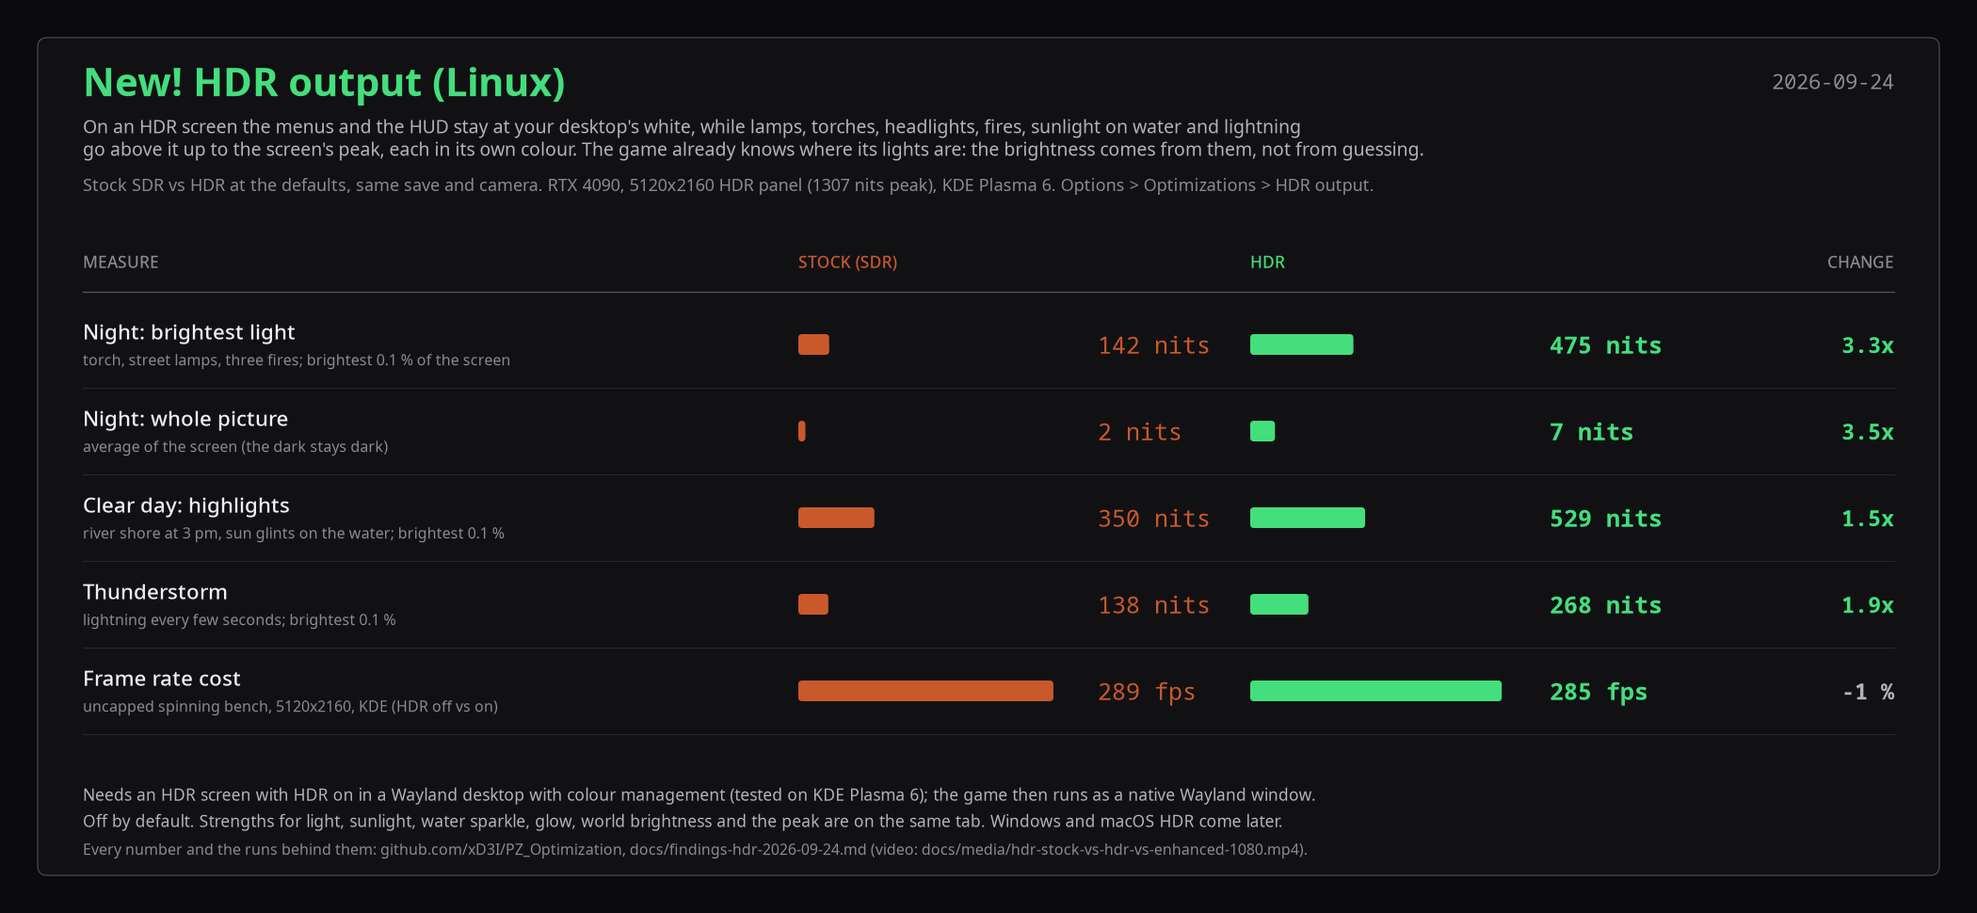
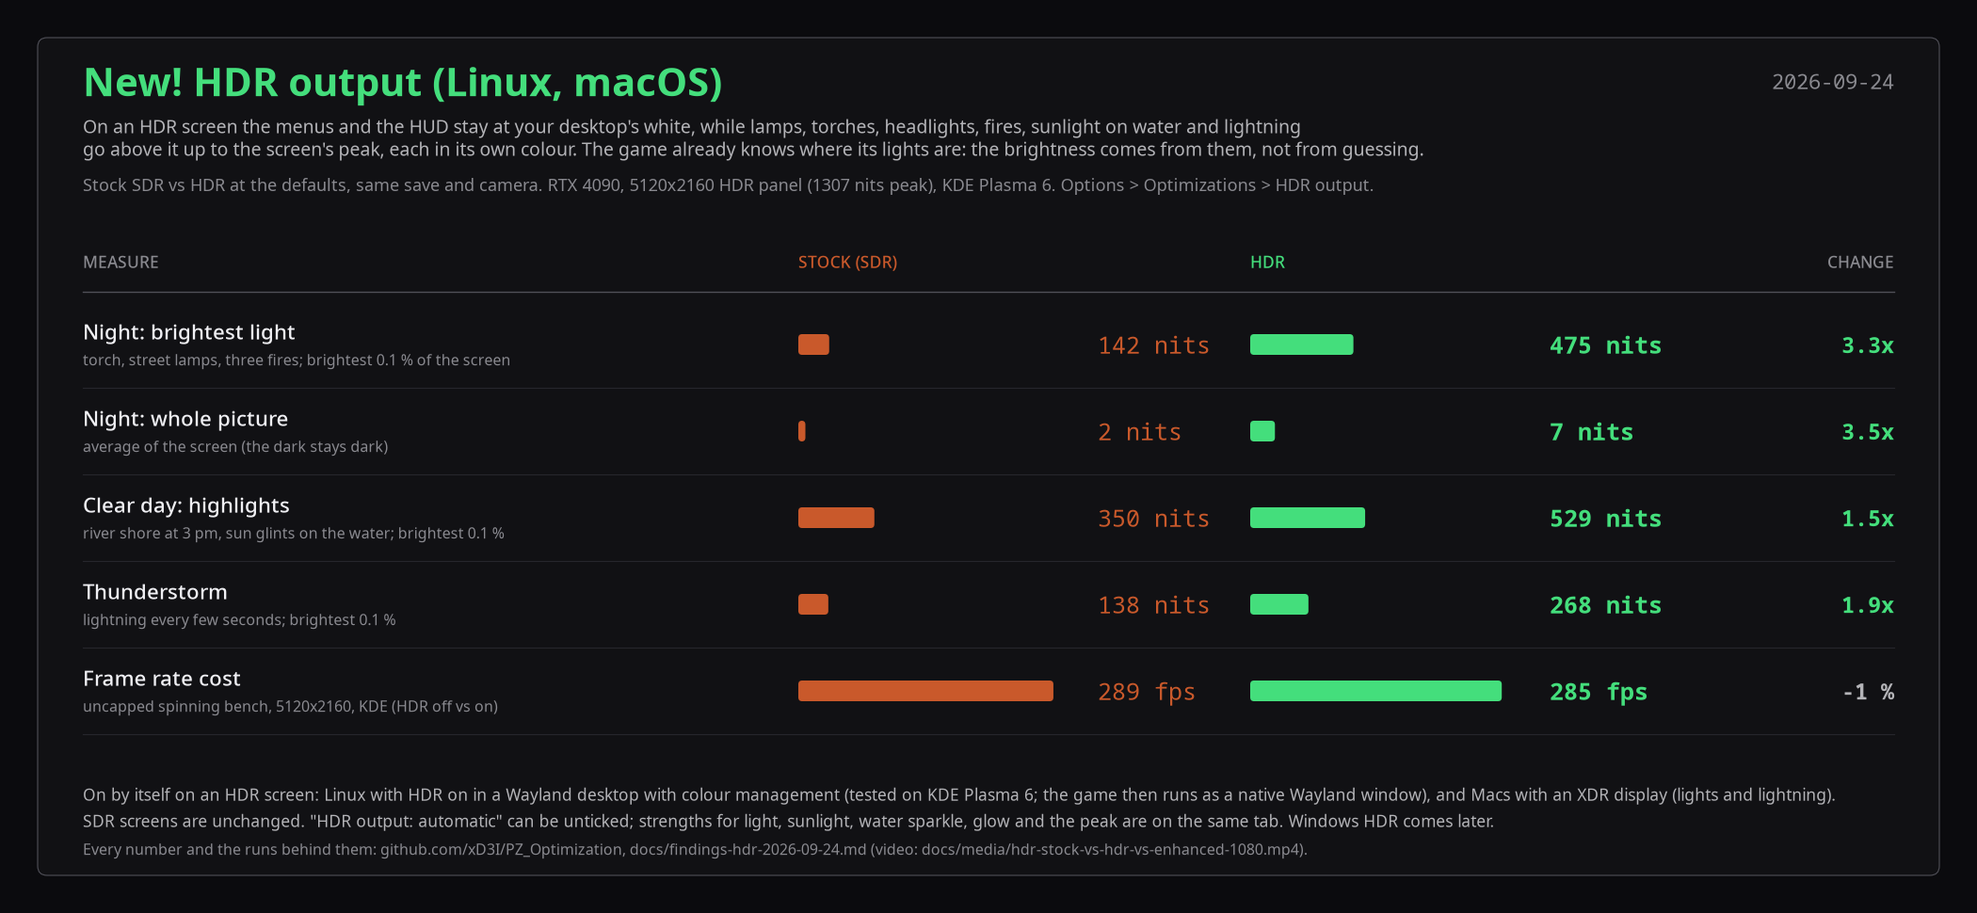
hdrAuto (default on): HDR turns itself on when the screen is HDR
hdr=true stays as "HDR output: always on"; the new "HDR output: automatic" tick box is on by
default. Linux: HdrWayland.probeHdrOutput asks every wl_output for its colour description on a
Wayland connection of its own, before GLFW picks the platform, so SDR desktops keep XWayland.
An HDR screen is PQ / HLG, or one whose peak reaches 400 nits and 1.5x its SDR white: KWin
describes HDR outputs as gamma 2.2 too (this desktop: reference 505, peak 1307) and gives SDR
laptop panels backlight headroom (the flip: reference 64, peak 200, stays SDR). macOS: a
potential EDR headroom of at least 4 (XDR panels 16). The decision is logged as "hdr: auto:".

The harness writes hdrAuto=false unless a run asks for it, so baselines on HDR screens stay SDR.
Workshop card and heading: "New! HDR output (Linux, macOS)", on by itself on HDR screens.

Runs mac-hdrmac5-auto (EDR 16, HDR on, upright) and hdrauto-desk / -desk2 (Wayland picked, HDR
on, clean exit); probe on the flip over ssh: SDR.

Changed region(s): [[0.031, 0.866, 0.9286, 0.9278], [0.2786, 0.0619, 0.3714, 0.1237]]

diff --git a/src/pzopt/pzopt/HdrWayland.java b/src/pzopt/pzopt/HdrWayland.java
@@ -70,7 +70,7 @@ public final class HdrWayland {
    private static int infoTf, infoPrimaries;
    private static int cmGlobalName, cmGlobalVersion;
 
-   private static final int TF_EXT_LINEAR = 5, TF_ST2084_PQ = 11, PRIMARIES_SRGB = 1, PRIMARIES_BT2020 = 6;
+   private static final int TF_EXT_LINEAR = 5, TF_ST2084_PQ = 11, TF_HLG = 13, PRIMARIES_SRGB = 1, PRIMARIES_BT2020 = 6;
    private static final int FEATURE_PARAMETRIC = 1, FEATURE_SET_LUMINANCES = 4, FEATURE_MASTERING = 5, FEATURE_SCRGB = 7;
 
    /**
@@ -184,9 +184,109 @@ public final class HdrWayland {
 
    // ------------------------------------------------------------------------------------------------------------
 
-   private static boolean init(long wlDisplay) throws Throwable {
-      if (manager != null) {
-         return true;
+   // ---- hdrAuto: is any output in HDR mode? (before GLFW exists, on a connection of our own) ----
+
+   private static final double AUTO_MIN_PEAK_NITS = 400;
+   private static boolean probing;
+   private static final java.util.List<int[]> probeOutputs = new java.util.ArrayList<>(); // {global name, version}
+   /** What the probe saw, for the log and the Options tab. */
+   public static volatile String probeResult = "not probed";
+
+   /**
+    * hdrAuto: connects to the session's compositor, binds wp_color_manager_v1 and asks every wl_output for its image
+    * description. HDR = a PQ / HLG output, or one whose peak is at least 400 nits and 1.5x its reference white. No
+    * colour manager, no connection or any failure = false.
+    */
+   public static boolean probeHdrOutput() {
+      MemorySegment conn = MemorySegment.NULL;
+      boolean hdr = false;
+      try {
+         loadLibrary();
+         MethodHandle connect = down("wl_display_connect", FunctionDescriptor.of(ValueLayout.ADDRESS, ValueLayout.ADDRESS));
+         conn = (MemorySegment)connect.invokeExact(MemorySegment.NULL);
+         if (conn.address() == 0L) {
+            probeResult = "no Wayland connection";
+            return false;
+         }
+         probing = true;
+         probeOutputs.clear();
+         display = conn;
+         queue = (MemorySegment)createQueue.invokeExact(display);
+         MemorySegment wrapper = (MemorySegment)createWrapper.invokeExact(display);
+         setQueue.invokeExact(wrapper, queue);
+         registry = marshal(wrapper, 1, lib.find("wl_registry_interface").orElseThrow(), "n", MemorySegment.NULL);
+         wrapperDestroy.invokeExact(wrapper);
+         listen(registry, "wl_registry");
+         roundtrip();
+         if (cmGlobalName == 0) {
+            probeResult = "compositor has no wp_color_manager_v1";
+            return false;
+         }
+         MemorySegment cm = marshalBind(registry, cmGlobalName, ARENA.allocateFrom("wp_color_manager_v1"), Math.min(cmGlobalVersion, 2),
+               IFACE.get("wp_color_manager_v1"));
+         StringBuilder seen = new StringBuilder();
+         MemorySegment outputIface = lib.find("wl_output_interface").orElseThrow();
+         for (int[] o : probeOutputs) {
+            MemorySegment output = marshalBind(registry, o[0], ARENA.allocateFrom("wl_output"), 1, outputIface);
+            MemorySegment cmOut = marshal(cm, 1, IFACE.get("wp_color_management_output_v1"), "no", MemorySegment.NULL, output);
+            MemorySegment desc = marshal(cmOut, 1, IFACE.get("wp_image_description_v1"), "n", MemorySegment.NULL);
+            descState = 0;
+            listen(desc, "wp_image_description_v1");
+            for (int i = 0; i < 20 && descState == 0; i++) {
+               roundtrip();
+            }
+            if (descState == 1) {
+               infoDone = false;
+               infoTf = 0;
+               infoMax = 80;
+               infoRef = 80;
+               infoTMax = 0;
+               MemorySegment info = marshal(desc, 1, IFACE.get("wp_image_description_info_v1"), "n", MemorySegment.NULL);
+               listen(info, "wp_image_description_info_v1");
+               for (int i = 0; i < 20 && !infoDone; i++) {
+                  roundtrip();
+               }
+               double peak = infoTMax > 0 ? infoTMax : infoMax;
+               // KWin describes HDR outputs as gamma 2.2 too (the desktop: reference 505, peak 1307), and gives SDR laptop
+               // panels backlight headroom (the flip: reference 64, peak 200): an HDR screen is one that reaches the
+               // DisplayHDR 400 floor with room above the SDR white
+               boolean outHdr = infoTf == TF_ST2084_PQ || infoTf == TF_HLG || peak >= AUTO_MIN_PEAK_NITS && peak >= 1.5 * infoRef;
+               hdr |= outHdr;
+               seen.append(String.format(java.util.Locale.ROOT, "%soutput %d: tf %d, reference %.0f, peak %.0f nits%s", seen.length() > 0 ? "; " : "",
+                     o[0], infoTf, infoRef, peak, outHdr ? " (HDR)" : ""));
+            } else {
+               seen.append(seen.length() > 0 ? "; " : "").append("output ").append(o[0]).append(": no description (").append(descFailure).append(')');
+            }
+         }
+         probeResult = seen.length() == 0 ? "no outputs" : seen.toString();
+         return hdr;
+      } catch (Throwable t) {
+         probeResult = "probe failed: " + t;
+         return false;
+      } finally {
+         probing = false;
+         try {
+            if (conn.address() != 0L) {
+               MethodHandle disconnect = down("wl_display_disconnect", FunctionDescriptor.ofVoid(ValueLayout.ADDRESS));
+               disconnect.invokeExact(conn); // the probe's proxies go with the connection's memory; nothing else holds them
+            }
+         } catch (Throwable ignored) {
+         }
+         // the real session (GLFW's display) starts from scratch in init()
+         display = null;
+         queue = null;
+         registry = null;
+         cmGlobalName = 0;
+         cmGlobalVersion = 0;
+         features = 0;
+         tfMask = 0;
+         primariesMask = 0;
+      }
+   }
+
+   private static void loadLibrary() {
+      if (lib != null) {
+         return;
       }
       lib = SymbolLookup.libraryLookup("libwayland-client.so.0", ARENA);
       createQueue = down("wl_display_create_queue", FunctionDescriptor.of(ValueLayout.ADDRESS, ValueLayout.ADDRESS));
@@ -200,7 +300,13 @@ public final class HdrWayland {
       proxyDestroy = down("wl_proxy_destroy", FunctionDescriptor.ofVoid(ValueLayout.ADDRESS));
       displayFlush = down("wl_display_flush", FunctionDescriptor.of(ValueLayout.JAVA_INT, ValueLayout.ADDRESS));
       buildInterfaces();
+   }
 
+   private static boolean init(long wlDisplay) throws Throwable {
+      if (manager != null) {
+         return true;
+      }
+      loadLibrary();
       display = MemorySegment.ofAddress(wlDisplay);
       queue = (MemorySegment)createQueue.invokeExact(display);
       displayWrapper = (MemorySegment)createWrapper.invokeExact(display);
@@ -304,6 +410,8 @@ public final class HdrWayland {
                   if ("wp_color_manager_v1".equals(name)) {
                      cmGlobalName = (Integer)args[0];
                      cmGlobalVersion = (Integer)args[2];
+                  } else if (probing && "wl_output".equals(name)) {
+                     probeOutputs.add(new int[] {(Integer)args[0], (Integer)args[2]});
                   }
                }
                break;

diff --git a/src/pzopt/pzopt/Hdr.java b/src/pzopt/pzopt/Hdr.java
@@ -49,8 +49,32 @@ public final class Hdr {
 
    // Linux and macOS (HdrMac ran on a MacBook Pro XDR panel, 2026-09-24); Windows (HdrWin) is native interop written without
    // the hardware, hdrUntestedPlatforms=true lets a test run use it
-   public static final boolean REQUESTED = Overrides.enabled() && Config.HDR
-         && (Config.HDR_UNTESTED_PLATFORMS || System.getProperty("os.name", "").toLowerCase(java.util.Locale.ROOT).contains("linux") || HdrMac.MAC);
+   private static final boolean PLATFORM = Config.HDR_UNTESTED_PLATFORMS
+         || System.getProperty("os.name", "").toLowerCase(java.util.Locale.ROOT).contains("linux") || HdrMac.MAC;
+   /** HDR is on because hdrAuto found an HDR screen, not because hdr=true asked for it. */
+   public static final boolean AUTO = Overrides.enabled() && PLATFORM && !Config.HDR && Config.HDR_AUTO && autoDetect();
+   public static final boolean REQUESTED = Overrides.enabled() && PLATFORM && (Config.HDR || AUTO);
+
+   /**
+    * hdrAuto (default on): turn HDR on when the screen is HDR. Linux: a Wayland session with an output in HDR mode
+    * (HdrWayland.probeHdrOutput, before GLFW, so SDR desktops keep XWayland). macOS: decided in windowCreated (AppKit is
+    * asked on the main thread once GLFW is up); asking for the alpha bits costs nothing on an SDR display.
+    */
+   private static boolean autoDetect() {
+      if (HdrMac.MAC) {
+         return true;
+      }
+      if (System.getenv("WAYLAND_DISPLAY") == null) {
+         autoNote = "hdr: auto: off (not a Wayland session)";
+         return false;
+      }
+      boolean hdr = HdrWayland.probeHdrOutput();
+      autoNote = "hdr: auto: " + (hdr ? "HDR screen found, HDR on" : "no HDR screen, HDR off") + " (" + HdrWayland.probeResult + ")";
+      return hdr;
+   }
+
+   /** The auto decision, logged from windowCreated: Hdr is initialised in Display.init, before the game log exists. */
+   private static String autoNote;
 
    /** Output is really HDR (FP16 back buffer + an attached image description). Render thread writes it once. */
    public static volatile boolean active;
@@ -302,6 +326,9 @@ public final class Hdr {
    /** Display.create(), context current: check the back buffer really is float and tag the surface. */
    public static void windowCreated(long window) {
       addWaylandExitHook();
+      if (autoNote != null) {
+         Log.info(autoNote);
+      }
       if (!REQUESTED) {
          return;
       }
@@ -314,6 +341,15 @@ public final class Hdr {
             return;
          }
          if (HdrMac.MAC) {
+            if (AUTO) {
+               double potential = HdrMac.screenPotentialHeadroom();
+               if (potential < 4.0) { // XDR panels: 16; ordinary panels only have a little backlight headroom
+                  state = String.format("auto: the display has no HDR headroom (EDR %.2f), HDR off", potential);
+                  Log.info("hdr: " + state);
+                  return;
+               }
+               Log.info(String.format("hdr: auto: EDR display (potential headroom %.1f), HDR on", potential));
+            }
             int alphaBits = GL11.glGetInteger(GL11.GL_ALPHA_BITS);
             if (alphaBits < 8) {
                state = "no alpha channel in the back buffer (" + alphaBits + " bits): the world gain has nowhere to go";

diff --git a/src/pzopt/pzopt/HdrMac.java b/src/pzopt/pzopt/HdrMac.java
@@ -274,8 +274,37 @@ public final class HdrMac {
 
    // --- setup --------------------------------------------------------------------------------------------------------
 
+   /**
+    * hdrAuto: the main screen's potential EDR headroom (1.0 = an SDR display; the MacBook Pro XDR panel: 16). Render
+    * (main) thread, after glfwInit; 1.0 when AppKit cannot be asked.
+    */
+   static double screenPotentialHeadroom() {
+      try {
+         loadObjc();
+         return sendD(sendP(cls("NSScreen"), "mainScreen"), "maximumPotentialExtendedDynamicRangeColorComponentValue");
+      } catch (Throwable t) {
+         Log.warn("hdr mac: EDR headroom unavailable: " + t);
+         return 1.0;
+      }
+   }
+
+   private static void loadObjc() {
+      if (linker != null) {
+         return;
+      }
+      SymbolLookup objc = SymbolLookup.libraryLookup("/usr/lib/libobjc.A.dylib", Arena.global());
+      SymbolLookup.libraryLookup("/System/Library/Frameworks/AppKit.framework/AppKit", Arena.global());
+      Linker l = Linker.nativeLinker();
+      msgSendAddr = objc.find("objc_msgSend").orElseThrow();
+      getClass = l.downcallHandle(objc.find("objc_getClass").orElseThrow(), FunctionDescriptor.of(P, P));
+      selRegister = l.downcallHandle(objc.find("sel_registerName").orElseThrow(), FunctionDescriptor.of(P, P));
+      poolPush = l.downcallHandle(objc.find("objc_autoreleasePoolPush").orElseThrow(), FunctionDescriptor.of(P));
+      poolPop = l.downcallHandle(objc.find("objc_autoreleasePoolPop").orElseThrow(), FunctionDescriptor.ofVoid(P));
+      linker = l;
+   }
+
    private static void init(long glfwWindow) throws Throwable {
-      linker = Linker.nativeLinker();
+      loadObjc();
       Arena g = Arena.global();
       SymbolLookup objc = SymbolLookup.libraryLookup("/usr/lib/libobjc.A.dylib", g);
       SymbolLookup metal = SymbolLookup.libraryLookup("/System/Library/Frameworks/Metal.framework/Metal", g);
@@ -284,11 +313,6 @@ public final class HdrMac {
       SymbolLookup cg = SymbolLookup.libraryLookup("/System/Library/Frameworks/CoreGraphics.framework/CoreGraphics", g);
       SymbolLookup.libraryLookup("/System/Library/Frameworks/QuartzCore.framework/QuartzCore", g);
       SymbolLookup.libraryLookup("/System/Library/Frameworks/MetalPerformanceShaders.framework/MetalPerformanceShaders", g);
-      msgSendAddr = objc.find("objc_msgSend").orElseThrow();
-      getClass = linker.downcallHandle(objc.find("objc_getClass").orElseThrow(), FunctionDescriptor.of(P, P));
-      selRegister = linker.downcallHandle(objc.find("sel_registerName").orElseThrow(), FunctionDescriptor.of(P, P));
-      poolPush = linker.downcallHandle(objc.find("objc_autoreleasePoolPush").orElseThrow(), FunctionDescriptor.of(P));
-      poolPop = linker.downcallHandle(objc.find("objc_autoreleasePoolPop").orElseThrow(), FunctionDescriptor.ofVoid(P));
       ioSurfaceCreate = linker.downcallHandle(ios.find("IOSurfaceCreate").orElseThrow(), FunctionDescriptor.of(P, P));
       cglTexImageIOSurface = linker.downcallHandle(ogl.find("CGLTexImageIOSurface2D").orElseThrow(), FunctionDescriptor.of(I, P, I, I, I, I, I, I, P, I));
       cglGetCurrentContext = linker.downcallHandle(ogl.find("CGLGetCurrentContext").orElseThrow(), FunctionDescriptor.of(P));

diff --git a/harness/hdr-card.py b/harness/hdr-card.py
@@ -41,7 +41,7 @@ def text(x, y, s, size=15, color=INK, weight="normal", ha="left", va="center", f
     ax.text(x, y, s, fontsize=size, color=color, fontweight=weight, ha=ha, va=va, family=family)
 
 X0 = PAD + 48
-text(X0, 86, "New! HDR output (Linux)", 30, OPT, "bold")
+text(X0, 86, "New! HDR output (Linux, macOS)", 30, OPT, "bold")
 text(W - X0, 86, DATE, 16, MUTED, ha="right", family=MONO)
 text(X0, 134, "On an HDR screen the menus and the HUD stay at your desktop's white, while lamps, torches, headlights, fires, sunlight"
      " on water and lightning", 14, INK2)
@@ -75,10 +75,10 @@ for name, detail, a, b, unit, top in ROWS:
     y += ROW_H
     ax.plot([X0, W - X0], [y, y], color=RULE, lw=0.8)
 
-text(X0, H - PAD - 86, "Needs an HDR screen with HDR on in a Wayland desktop with colour management (tested on KDE Plasma 6); the game then runs"
-     " as a native Wayland window.", 12.5, INK2)
-text(X0, H - PAD - 58, "Off by default. Strengths for light, sunlight, water sparkle, glow, world brightness and the peak are on the same tab."
-     " Windows and macOS HDR come later.", 12.5, INK2)
+text(X0, H - PAD - 86, "On by itself on an HDR screen: Linux with HDR on in a Wayland desktop with colour management (tested on KDE Plasma 6; the game"
+     " then runs as a native Wayland window), and Macs with an XDR display (lights and lightning).", 12.5, INK2)
+text(X0, H - PAD - 58, "SDR screens are unchanged. \"HDR output: automatic\" can be unticked; strengths for light, sunlight, water sparkle, glow and"
+     " the peak are on the same tab. Windows HDR comes later.", 12.5, INK2)
 text(X0, H - PAD - 28, "Every number and the runs behind them: github.com/xD3I/PZ_Optimization, docs/findings-hdr-2026-09-24.md"
      " (video: docs/media/hdr-stock-vs-hdr-vs-enhanced-1080.mp4).", 11.5, MUTED)
 fig.savefig(OUT, dpi=100, facecolor=BG)

diff --git a/src/pzopt/pzopt/Config.java b/src/pzopt/pzopt/Config.java
@@ -603,6 +603,7 @@ public final class Config {
    public static final boolean FOG_PASS = bool("fogPass", true); // ImprovedFog as one batch into a scaled, depth-copied fog buffer (pzopt.FogPass)
    public static final int FOG_SCALE_PCT = integer("fogScalePct", 25); // fog buffer size per axis, % of the viewport
    public static final boolean HDR = bool("hdr", false); // HDR output (pzopt.Hdr): FP16 window on Wayland tagged with the output's HDR image description, world highlights expanded, UI at the desktop's white
+   public static final boolean HDR_AUTO = bool("hdrAuto", true); // HDR output whenever the screen is HDR (Linux: a Wayland output in HDR mode; macOS: an EDR display), even with hdr=false; hdr=true forces it
    public static final String HDR_ENCODE = string("hdrEncode", "auto").toLowerCase(java.util.Locale.ROOT); // on: ext_linear description + encode pass at the swap (standard, exact roll-off); off: no description, the compositor's own SDR decode shows the FP16 values above 1.0 (KWin; ~0.3 ms a frame cheaper at 4K); auto: off on KDE Plasma, on elsewhere
    public static final int HDR_UI_NITS = integer("hdrUiNits", 0); // UI / SDR white on the panel in cd/m², 0 = the desktop's reference white
    public static final int HDR_PAPER_PCT = integer("hdrPaperPct", 100); // world paper white, % of the UI white (lower = more room for highlights)

diff --git a/docs/CLAUDE.md b/docs/CLAUDE.md
@@ -43,7 +43,7 @@ classes are described in words.
 | `media/updater-card.png` (+ the four `media/updater-*.png` captures) | generated by `harness/updater-card.py` (the Workshop page's "New! In-game updater" image: the menu item greyed / enabled, the dialog before and after the install; 2026-09-22) |
 | `media/mac-comparison.png` | generated by `harness/mac-table.py` (the Workshop page's "New! macOS support" image: stock vs optimized on the M1 Pro MacBook, 120 km/h drive, two-run means, dated; numbers typed in from results.md) |
 | `media/upscaler-card.png` | generated by `harness/upscaler-card.py` (the Workshop page's "New! Upscaler: FSR 1.0 and DLSS" image: the 120 km/h drive per upscaler mode, fps / p50 / p99, dated; numbers typed in from plan-upscalers.md; 2026-09-22) |
-| `media/hdr-card.png` | generated by `harness/hdr-card.py` (the Workshop page's "New! HDR output (Linux)" image: stock SDR vs HDR at the defaults, panel nits per scene from the comparison video, frame cost; 2026-09-24) |
+| `media/hdr-card.png` | generated by `harness/hdr-card.py` (the Workshop page's "New! HDR output (Linux, macOS)" image: stock SDR vs HDR at the defaults, panel nits per scene from the comparison video, frame cost; 2026-09-24) |
 | `media/hdr-stock-vs-hdr-vs-enhanced.mp4` (+ `.jpg` poster; the committed README copy is `-1080.mp4` / `-1080.jpg`, CQ 30; the full-size mp4 stays local) | `tools/hdr/stitch-hdr-3way.sh` (queue media job, `LAG_<scene>_<pane>` from frame correlation): stock (`enabled=false`, SDR) / HDR with the plain highlight expansion only (`tools/hdr/tune/plain.txt`) / HDR enhanced (defaults) + legend, 2x2 per scene: night torch + lamps + fires, river shore by day, thunderstorm; the character turns in place; AV1 HDR 5120x2160, 46 s (2026-09-24, runs `hdrvid-*`) |
 | `media/hdr-showcase-sdr-vs-hdr.mp4` (+ `.jpg`; committed copy `-1080.mp4` / `-1080.jpg`; full size local) and `media/hdr-night-fires-sdr-vs-hdr.mp4` (+ `.jpg`) | `tools/hdr/reel.sh` / `stitch-hdr-sbs.sh`: stock SDR vs HDR side by side, fires + torch, headlights, lightning (2026-09-24 morning, runs `hdrcmp-*`) |
 

diff --git a/docs/findings-hdr-2026-09-24.md b/docs/findings-hdr-2026-09-24.md
@@ -252,6 +252,17 @@ SDR decode), so the HDR container at expansion 0 reproduces the SDR window exact
   through MPSImageBilinearScale, headroom 16, upright in all dumps, torch indoors 3.7x SDR white, 59.5 fps at the
   60 cap, p99 41.1 ms, GPU 63 % (54 % windowed at 1920x1200 without the upscale). Not checked: lightning and headlights.
 
+- **13:40-13:50 `hdrAuto` (default on): HDR by itself on an HDR screen.** `hdr=true` stays the manual "always on".
+  Linux: `HdrWayland.probeHdrOutput` opens its own libwayland connection in `Display.init` (before GLFW picks the
+  platform, so SDR desktops keep XWayland), binds wp_color_manager_v1 and asks every wl_output for its image
+  description (~100 ms incl. the FFM warm-up). KWin describes an HDR output as gamma 2.2 too (tf 2: the desktop reads
+  reference 505 / peak 1307 nits) and gives an SDR laptop panel backlight headroom (the flip: reference 64, peak 200), so
+  the rule is PQ / HLG, or a peak of at least 400 nits (DisplayHDR 400) and 1.5x the reference. Probe: desktop HDR, flip
+  SDR. macOS: potential EDR headroom of at least 4 (XDR panels 16; ordinary panels only have some backlight headroom),
+  asked in windowCreated. The decision is logged from windowCreated (`hdr: auto: ...`): Hdr is initialised before the game
+  log exists. Runs `mac-hdrmac5-auto` (EDR 16 -> HDR on, upright, 3.3x) and `hdrauto-desk` / `-desk2` (Wayland picked,
+  HDR on, clean exit). The harness writes `hdrAuto=false` unless a run asks, so baselines on this HDR desktop stay SDR.
+
 ## State (2026-09-24 10:10)
 
 `hdr=true` on KDE Plasma 6 with HDR on gives: UI at the desktop's white, the world as SDR in daylight, lamp / torch /

diff --git a/harness/CLAUDE.md b/harness/CLAUDE.md
@@ -155,6 +155,11 @@ Flags that must be on every measured run: `--prop instrument=true` (else no
 20-28 ms frame). Use the DEFAULT bench save for drive runs; `--source-save
 Apocalypse/2026-09-18_12-18-03` starts off the highway and the car crashes.
 
+HDR (2026-09-24): the game's `hdrAuto` (default on) turns HDR on by itself on an HDR screen, and this desktop's is one
+(KDE HDR on, reference 505 / peak 1307 nits; the MacBook's XDR panel too). run.sh and run-mac.sh therefore write
+`hdrAuto=false` into every run's pzopt.properties unless the run passes `--prop hdrAuto=...`; HDR runs pass
+`--prop hdr=true` (forced) or `--prop hdrAuto=true` (the player's default path).
+
 ## Run queue (harness/queue.sh, 2026-09-21)
 
 The game dirs, displays and Steam clients of the desktop and the three laptops are shared resources;
